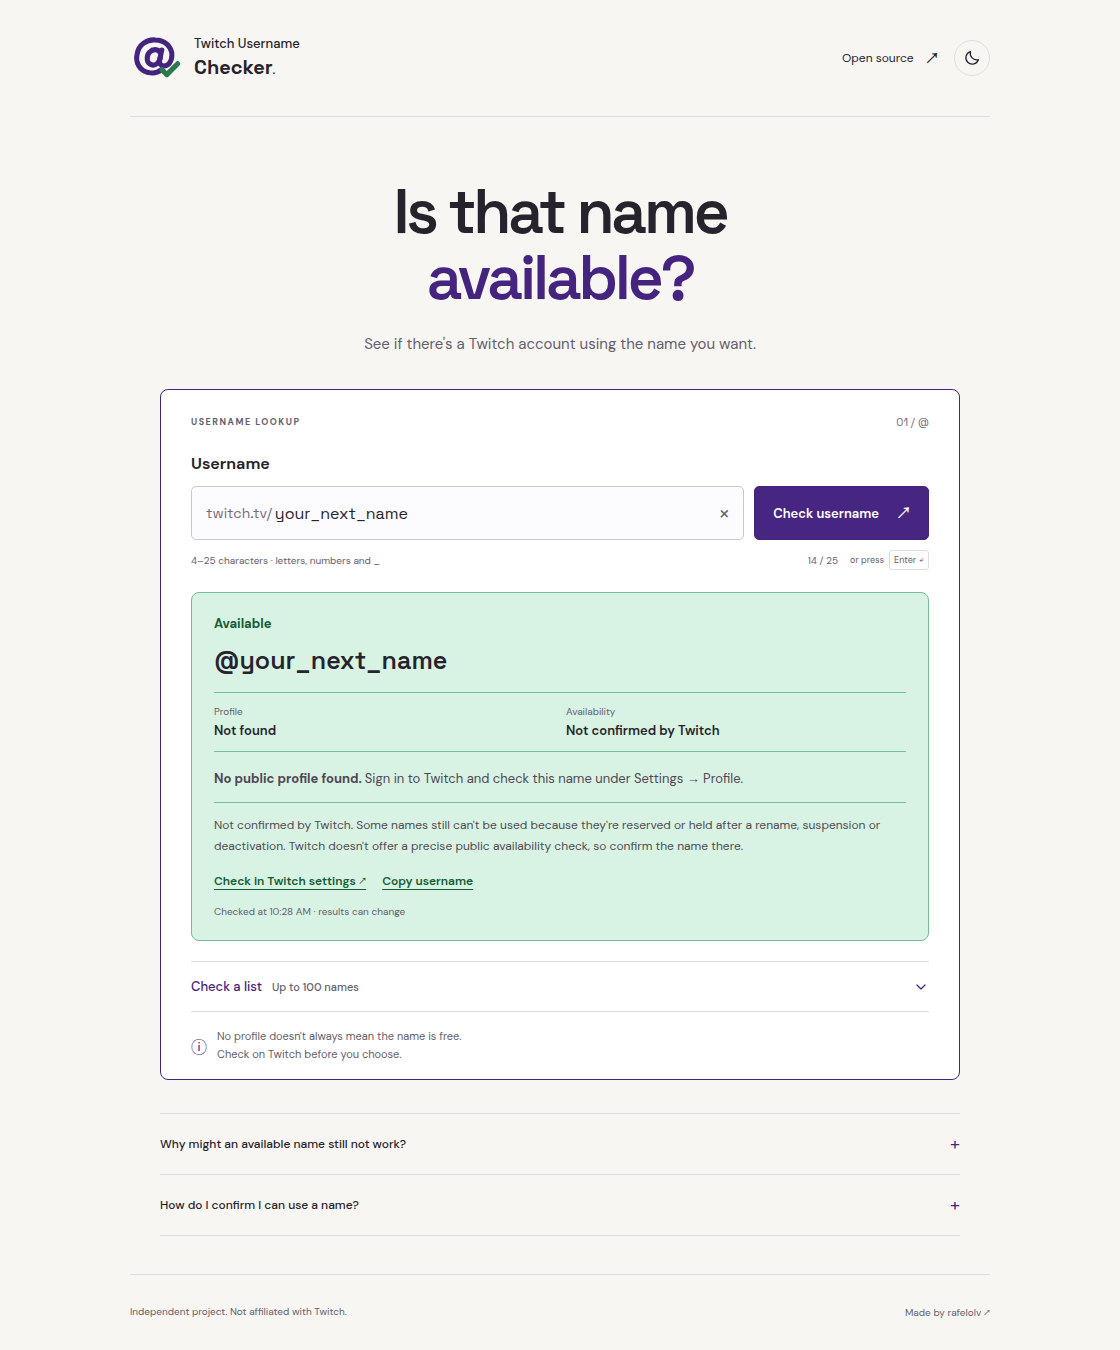
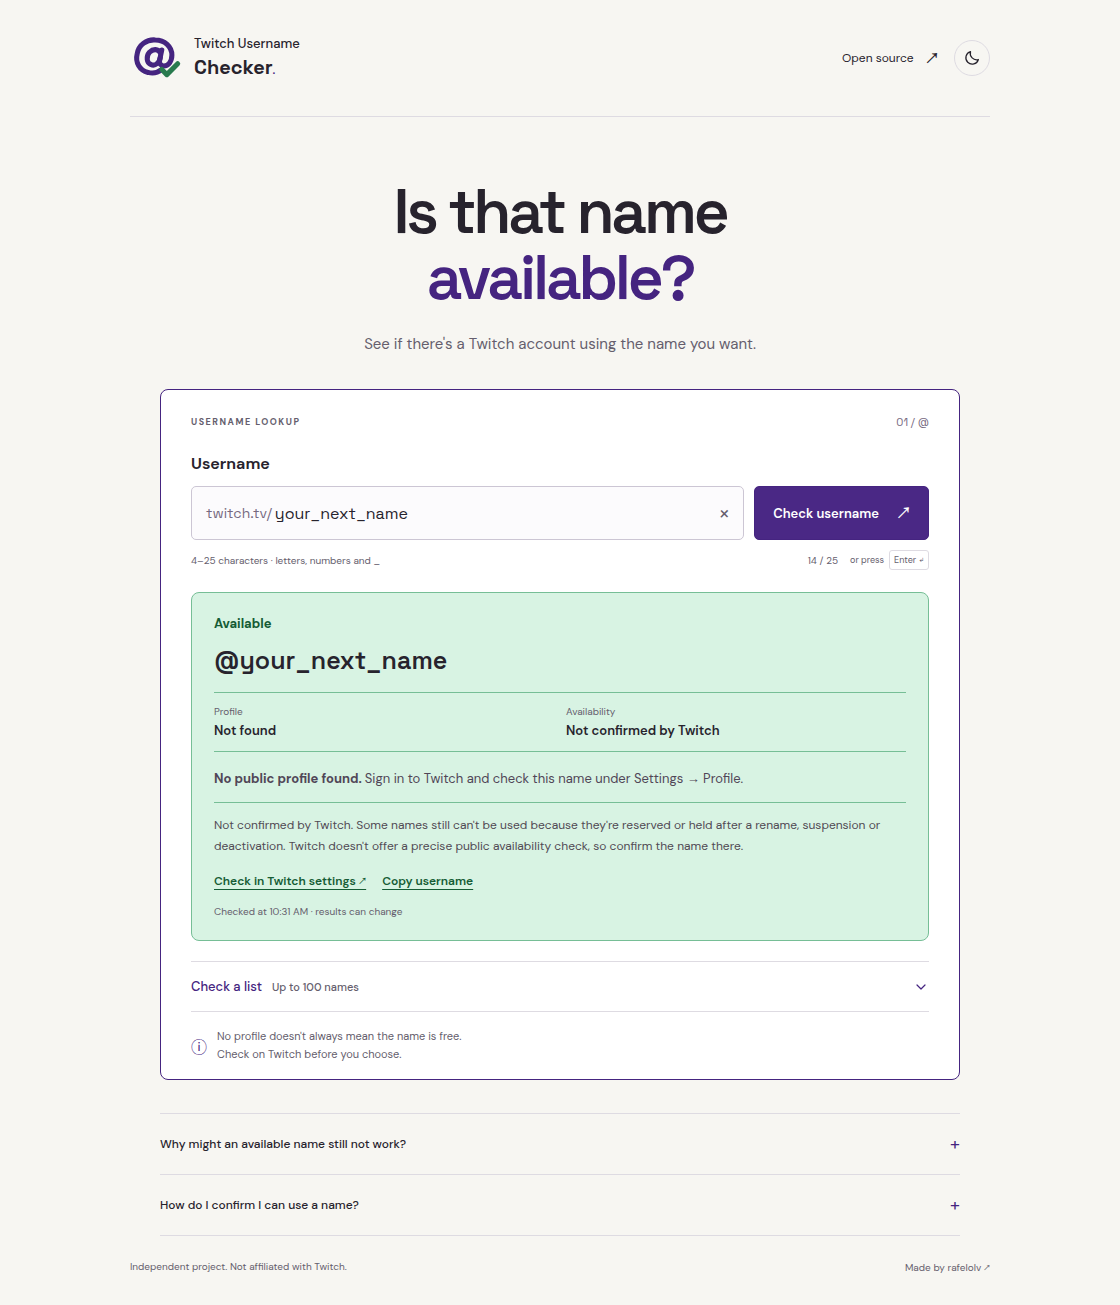
style: simplify footer spacing

diff --git a/styles.css b/styles.css
@@ -483,9 +483,8 @@ details a {
   color: var(--purple);
 }
 .site-footer {
-  padding: 30px 0;
-  margin-top: 38px;
-  border-top: 1px solid var(--line);
+  padding: 24px 0 30px;
+  margin-top: 0;
 }
 .site-footer > p {
   font:
@@ -601,8 +600,7 @@ details a {
     line-height: 1.5;
   }
   .site-footer {
-    margin-top: 30px;
-    padding-block: 25px;
+    padding-bottom: 25px;
   }
   .site-footer > div {
     flex-direction: column;

diff --git a/docs/VALIDATION.md b/docs/VALIDATION.md
@@ -339,3 +339,12 @@ Limitations:
   two FAQ entries remain, and both themes fit at 320px without horizontal overflow.
   Refreshed the README previews. Preview lookup responses were mocked; no request
   behavior changed and no live Twitch checks were needed.
+
+
+## 1.3.4 footer spacing — 2026-10-17
+
+- `npm run check` passes. Temporary Chrome profile: verified the footer has no
+  top border or extra top margin, both themes render correctly, and the page
+  fits at 320px. Inspected the dark preview and refreshed both README screenshots.
+- Preview lookup responses were mocked. Request behavior did not change; no
+  new live Twitch checks were needed.

diff --git a/CHANGELOG.md b/CHANGELOG.md
@@ -3,6 +3,10 @@
 Versions follow three-part semver; `package.json` is the version source.
 Entries remain Unreleased until publication is verified.
 
+## 1.3.4
+
+- Remove the extra footer divider and tighten the space below the FAQ.
+
 ## 1.3.3
 
 - Remove the sign-in question from the FAQ.
